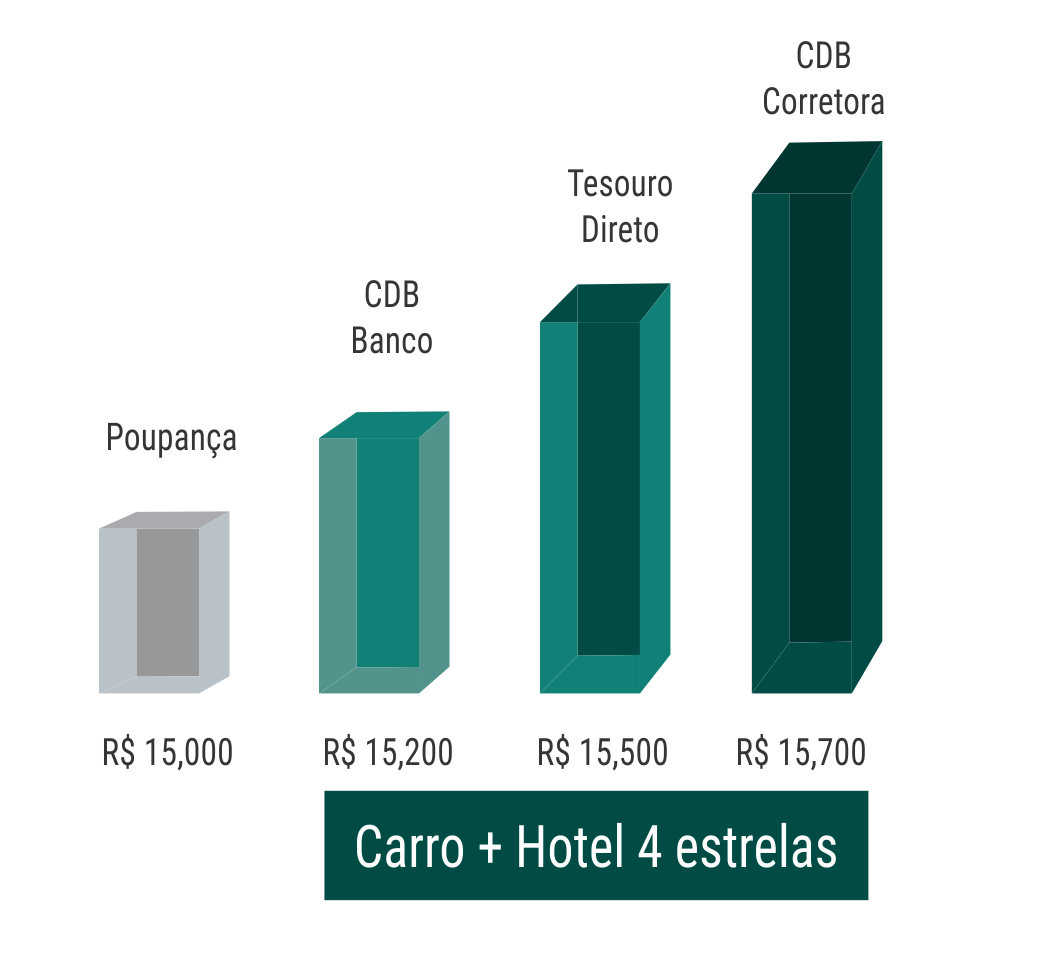
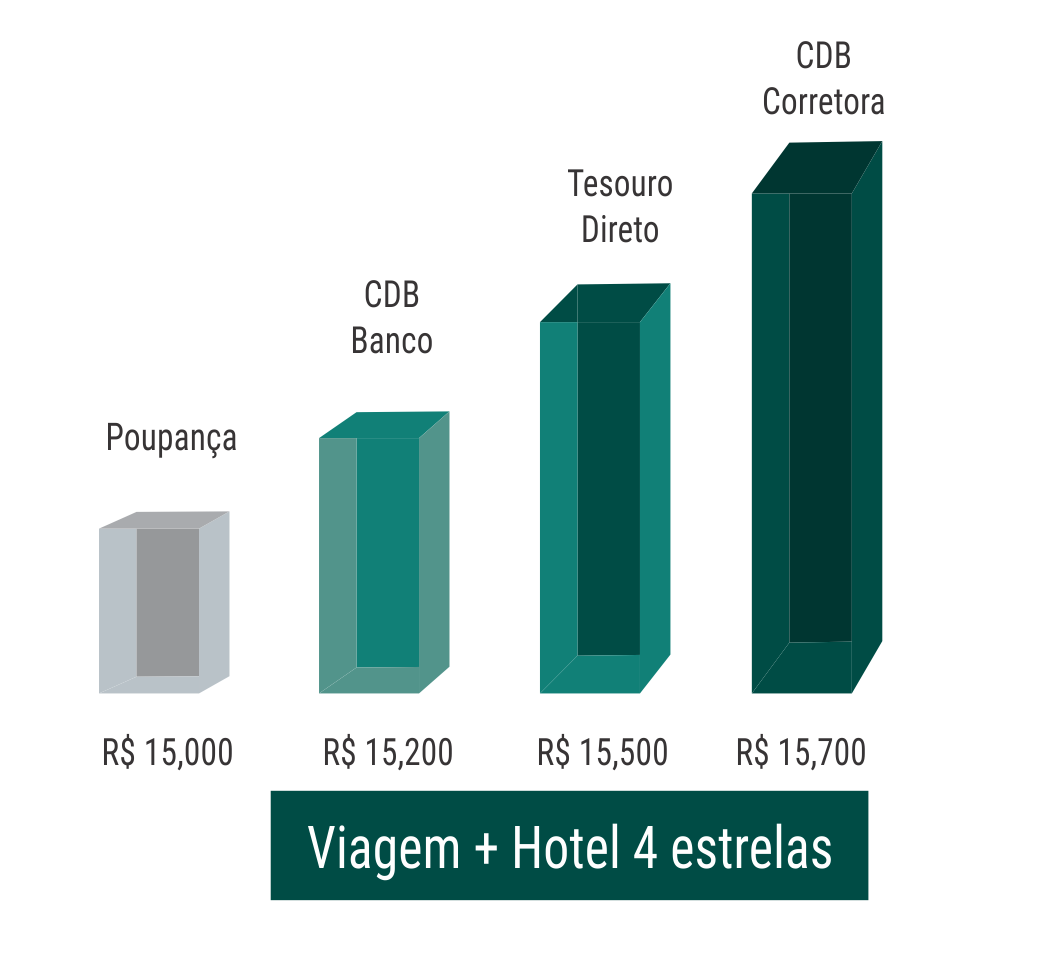
Correções de texto feitas pelo Oseilieri.

Changed region(s): [[0.245, 0.8165, 0.7962, 0.9374]]

diff --git a/src/info/info_2.html b/src/info/info_2.html
@@ -1,25 +1,20 @@
 <template>
     <div class="jumbotron login">
         <h4 class="title resultado-help">
-            Você também pode emprestar seu dinheiro para o banco através do <span class="destaque">CDB</span> 
-            (certificado de depósito bancário), que nada mais é que uma outra forma dos bancos pegarem dinheiro emprestado com as pessoas para financiar suas operações.
+            Os bancos também pegam dinheiro emprestado com você através do <span class="destaque">CDB</span> 
+            (certificado de depósito bancário). A vantagem é que o <span class="destaque">CDB</span> te remunera 
+            melhor e exige que você deixe o dinheiro investido com um prazo pré determinado, 
+            que varia de acordo com a instituição. Com isso basta você escolher o que melhor 
+            combina com o seu objetivo
         </h4>
-        <br>
-        <h4 class="title resultado-help">
-            A principal diferença entre o <span class="destaque">CDB</span> 
-            e a poupança, é que o <span class="destaque">CDB</span> 
-            remunera melhor e exige que você deixe o dinheiro investido até
-            uma data específica, que varia de acordo com o tipo do <span class="destaque">CDB</span>. 
-            Com isso, basta você escolher o que melhor combina com o seu objetivo.
-        </h4>
-        <br>
+        <br>                
         <img class="resultado-image" style="width: 100%; margin-left: 0px; left: 0;" src="./resources/images/investim.png">
         <br>
         <br>
         <br>
         <div class="col-md-12 row">
             <a class="col-md-5 btn btn-lg btn-success auth-button" href="http://blog.bussoladoinvestidor.com.br/guia-investimento-em-cdb-o-que-saber/" target="_blank">Saber mais</a>
-            <a class="col-md-5 col-md-offset-2 btn btn-lg btn-success auth-button" href="#info3">Próximo</a>
+            <a class="col-md-5 col-md-offset-2 btn btn-lg btn-success auth-button" href="#info3">Entendi</a>
         </div>        
     </div>
 </template>

diff --git a/src/intro/fechamento.html b/src/intro/fechamento.html
@@ -2,19 +2,20 @@
     <div class="jumbotron login">
         <form submit.delegate = "submit()">
             <h4 class="title col-md-12">
-                Deixe seus dados abaixo para que a nossa equipe possa entrar em contato para que possamos te ajudar.
+                Ótima escolha!
             </h4>
             <h4 class="title col-md-12">
-                Estamos em uma versão beta, o seu feedback é muito importante para podermos te entregar a melhor 
-                experiência possível.
+                Preencha seus dados que entraremos em contato.
             </h4>
             <h4 class="title col-md-12">
-                Você poderia deixar seu feedback abaixo?
+                Estamos em uma versão beta, o seu feedback é muito importante 
+                para podermos te entregar a melhor experiência possível. 
+                Deixe uma mensagem de feedback abaixo.
             </h4>                
             <div class="form-group">
-                <input value.bind="nome" required="true" type="text" class="form-control input-lg" placeholder="Seu nome (*obrigatório)">
+                <input value.bind="email" required="true" type="email" class="form-control input-lg" placeholder="Seu e-mail (*obrigatório)"/>                
                 <br>
-                <input value.bind="email" required="true" type="email" class="form-control input-lg" placeholder="Seu e-mail (*obrigatório)">
+                <input value.bind="nome" type="tel" class="form-control input-lg" placeholder="Telefone"/>
                 <br>
                 <textarea value.bind="feedback" class="form-control" rows="5" 
                 class="form-control input-lg" placeholder="Mensagem">

diff --git a/src/info/info_3.html b/src/info/info_3.html
@@ -1,14 +1,12 @@
 <template>
     <div class="jumbotron login">
         <h4 class="title resultado-help">
-            Sabia que, assim como os bancos, o <span class="destaque">Governo</span> 
-            brasileiro também precisa de dinheiro emprestado? Você pode emprestar seu dinheiro para o Governo e ele 
-            irá te pagar um juros por isso.
+            Como os bancos, o <span class="destaque">Governo</span> brasileiro também precisa de dinheiro emprestado! 
         </h4>
         <br>
         <h4 class="title resultado-help">
-            É o famoso <span class="destaque">Tesouro Direto</span>. 
-            Eles são comercializados por instituições financeiras e corretoras.
+            Chamado de <span class="destaque">Tesouro Direto</span>, eles são comercializados por 
+            instituições financeiras e corretoras de valores.
         </h4>
         <br>
         <img class="resultado-image-tesouro" src="./resources/images/bau03.jpg">        
@@ -17,7 +15,7 @@
         <br>
         <div class="col-md-12 row">
             <a class="col-md-5 btn btn-lg btn-success auth-button" href="http://blog.bussoladoinvestidor.com.br/o-que-e-tesouro-direto/" target="_blank">Saber mais</a>
-            <a class="col-md-5 col-md-offset-2 btn btn-lg btn-success auth-button" href="#info4">Próximo</a>
+            <a class="col-md-5 col-md-offset-2 btn btn-lg btn-success auth-button" href="#info4">Entendi</a>
         </div>        
     </div>    
 </template>

diff --git a/src/info/info_1.html b/src/info/info_1.html
@@ -1,13 +1,12 @@
 <template>
     <div class="jumbotron login">
         <h4 class="title resultado-help">
-            Vamos começar pelo investimento mais conhecido por todos nós.
-            A <span class="destaque">poupança</span> é um investimento que você empresta 
-            seu dinheiro para o banco e ele te paga um juros por isso.
+            Você sabia?            
         </h4>
         <br>
         <h4 class="title resultado-help">
-            Essa é uma das maneiras mais comuns de investimento no Brasil.
+            O mais comum é a <span class="destaque">poupança</span>, um investimento que você empresta seu dinheiro para o 
+            banco e ele te paga por isso. É uma das maneiras mais comuns de investimento no Brasil
         </h4>
         <br>
         <img class="resultado-image" src="./resources/images/porco.png">        
@@ -16,7 +15,7 @@
         <br>
         <div class="col-md-12 row">
             <a class="col-md-5 btn btn-lg btn-success auth-button" href="http://blog.bussoladoinvestidor.com.br/nao-investir-na-poupanca/" target="_blank">Saber mais</a>
-            <a class="col-md-5 col-md-offset-2 btn btn-lg btn-success auth-button" href="#info2">Próximo</a>
+            <a class="col-md-5 col-md-offset-2 btn btn-lg btn-success auth-button" href="#info2">Entendi</a>
         </div>
     </div>    
 </template>

diff --git a/src/info/info_5v4.html b/src/info/info_5v4.html
@@ -1,16 +1,12 @@
 <template>
     <div class="jumbotron login">
         <h4 class="title resultado-help">
-            Vamos fazer uma breve <span class="destaque">comparativo</span> entre os tipos de investimentos 
-            e quanto você ganharia com eles para realizar o seu sonho que é ${objetivo}.
+            Vamos comparar qual é a melhor opção para você ${objetivo}.
         </h4>
         <br>
         <h4 class="title resultado-help">
-            Vamos supor que a sua viagem custa R$ 15 mil e você pretende juntar esse dinheiro em 18 meses. 
-            Se no mesmo período você tivesse investido em um bom <span class="destaque">CDB</span> da corretora, 
-            por exemplo, você teria R$ 700 a mais. Isso significa que, com essa diferença você poderia 
-            ficar em um hotel 4 estrelas  ao invés de um hotel 3 estrelas, por exemplo, apenas investindo seu 
-            dinheiro de forma mais inteligente.
+           Em um ano e meio, investindo a mesma quantia da poupança, você 
+           consegue se hospedar em hotel 4 estrelas ao invés de um 3 estrelas, apenas investindo melhor.
         </h4>    
         <br>                
         <img class="resultado-image-gra" src="./resources/images/gra-viagem.png">                

diff --git a/src/info/info_5v1.html b/src/info/info_5v1.html
@@ -1,17 +1,12 @@
 <template>
     <div class="jumbotron login">
         <h4 class="title resultado-help">
-            Vamos fazer uma breve <span class="destaque">comparativo</span> entre os tipos de investimentos 
-            e quanto você ganharia com eles para realizar o seu sonho que é ${objetivo}.
+            Vamos comparar qual é a melhor opção para você ${objetivo}.
         </h4>
         <br>
         <h4 class="title resultado-help">
-            Vamos supor que o carro que você quer comprar custa, aproximadamente, 
-            R$ 35 mil e que você pretende comprá-lo em 36 meses. Se no mesmo período 
-            você estivesse investido em um bom CDB da corretora, por exemplo, você teria 
-            cerca de R$ 3 mil a mais. Isso significa que, com essa diferença você poderia, 
-            além de comprar o carro, contratar o seguro, investindo a mesma quantia, porém de 
-            forma mais inteligente.
+            Em 3 anos, investindo a mesma quantia da poupança, além de comprar o carro, 
+            você consegue contratar um seguro para o seu carro apenas investindo melhor.
         </h4>
         <br>
         <img class="resultado-image-gra" src="./resources/images/gra-carro.png">

diff --git a/src/info/info_5v2.html b/src/info/info_5v2.html
@@ -1,15 +1,12 @@
 <template>
     <div class="jumbotron login">
         <h4 class="title resultado-help">
-            Vamos fazer uma breve <span class="destaque">comparativo</span> entre os tipos de investimentos 
-            e quanto você ganharia com eles para realizar o seu sonho que é ${objetivo}.
+            Vamos comparar qual é a melhor opção para você ${objetivo}.
         </h4>
         <br>
         <h4 class="title resultado-help">
-            Vamos supor que o seu apartamento custa R$ 300 mil e que você pretende compra-lo em 15 anos. Se no mesmo período você tivesse
-            investido no Tesouro Direto, por exemplo, você teria R$ 125 mil a mais. Isso significa que, com essa diferença
-            você poderia comprar um apartamento de 3 quartos ao invés de um 2 quartos, por exemplo, apenas investindo seu
-            dinheiro de forma mais inteligente.
+            Em 15 anos, investindo a mesma quantia da poupança, você consegue comprar 
+            um apartamento de 3 quartos ao invés de um 2 quartos, apenas investindo melhor.
         </h4>
         <br>
         <img class="resultado-image-gra" src="./resources/images/gra-casa.png">

diff --git a/src/info/info_5v3.html b/src/info/info_5v3.html
@@ -1,15 +1,12 @@
 <template>
     <div class="jumbotron login">
         <h4 class="title resultado-help">
-            Vamos fazer uma breve <span class="destaque">comparativo</span> entre os tipos de investimentos 
-            e quanto você ganharia com eles para realizar o seu sonho que é ${objetivo}.
+            Vamos comparar qual é a melhor opção para você ${objetivo}.
         </h4>
         <br>
         <h4 class="title resultado-help">
-            Vamos supor um pé de meia para sua aposentadoria no valor de R$ 700 mil e que você pretende acumula-lo em 20 anos. Se no
-            mesmo período você tivesse investido no Tesouro Direto, por exemplo, você poderia fazer uma retirada mensal na
-            sua aposentadoria de quase o dobro comparado a poupança, por exemplo, apenas investindo seu dinheiro de forma
-            mais inteligente.
+            Em 20 anos, investindo a mesma quantia da poupança, você 
+            consegue fazer uma retirada para mensal na sua aposentadoria de quase o dobro, apenas investindo melhor.
         </h4>
         <br>
         <img class="resultado-image-gra" src="./resources/images/gra-aposentadoria.png">

diff --git a/src/info/info_5v5.html b/src/info/info_5v5.html
@@ -1,17 +1,12 @@
 <template>
     <div class="jumbotron login">
         <h4 class="title resultado-help">
-            Vamos fazer uma breve <span class="destaque">comparativo</span> entre os tipos 
-            de investimentos e quanto você ganharia com eles para realizar o seu sonho
-            que é ${objetivo}.
+            Vamos comparar qual é a melhor opção para você ${objetivo}.
         </h4>
         <br>
         <h4 class="title resultado-help">
-            Vamos supor que sua reserva será de R$ 50 mil e você pretende juntar esse 
-            dinheiro em 5 anos. Se no mesmo período você tivesse investido em um bom CDB 
-            da corretora, por exemplo, você teria cerca de R$ 7 mil a mais. Isso significa que, 
-            com essa diferença você poderia fazer muito mais coisas do que antes, apenas investindo 
-            seu dinheiro de forma mais inteligente
+            Em 5 anos, investindo a mesma quantia da poupança, 
+            você consegue comprar muito mais coisas do que antes, apenas investindo melhor.
         </h4>
         <br>
         <img class="resultado-image-gra" src="./resources/images/gra-outros.png">

diff --git a/src/intro/resultado.html b/src/intro/resultado.html
@@ -1,10 +1,13 @@
 <template>
     <div class="jumbotron login">
-        <h3 class="title resultado-help">Agora que eu já sei o seu perfil de investidor, 
-            nós podemos aprender sobre os produtos de investimentos que melhor combinam com você.</h3>
         <h3 class="title">Seu perfil de investidor é:</h3>
-        <img class="resultado-image" src="./resources/images/avatar_${perfil}.png">
+        <img class="resultado-image" src="./resources/images/avatar_${perfil}.png"/>
         <span class="title resultado-perfil resultado-help">${perfil}</span>
+        <br>
+        <h3 class="title resultado-help">
+            Agora que eu já sei o seu perfil de investidor, vamos aprender sobre os produtos 
+            de investimentos que melhor combinam com você.
+        </h3>        
         <a class="btn btn-lg btn-success auth-button" href="#info1">Começar</a>
     </div>
 </template>

diff --git a/src/intro/final.html b/src/intro/final.html
@@ -1,7 +1,7 @@
 <template>
     <div class="jumbotron login">
-        <h4 class="title">Aprender a investir pode se tornar simples e, principalmente, muito mais rentável. </h4>
-        <h4 class="title resultado-help">Vamos te ajudar a alcançar seus sonhos… </h4>
+        <h4 class="title">Aprender a investir é simples e, principalmente, muito mais rentável.</h4>
+        <h4 class="title resultado-help">Vamos te ajudar a alcançar seu sonho!</h4>
         <h4 class="title resultado-help">O que você quer fazer agora?</h4>
         <br>        
         <div class="row container">

diff --git a/src/info/info_4.html b/src/info/info_4.html
@@ -16,7 +16,7 @@
         <br>
         <div class="col-md-12 row">
             <a class="col-md-5 btn btn-lg btn-success auth-button" href="https://www.bussoladoinvestidor.com.br/abc_do_investidor/corretora_de_valores" target="_blank">Saber mais</a>
-            <button class="col-md-5 col-md-offset-2 btn btn-lg btn-success auth-button" click.delegate="continuar()">Próximo</button>
+            <button class="col-md-5 col-md-offset-2 btn btn-lg btn-success auth-button" click.delegate="continuar()">Entendi</button>
         </div>        
     </div>
 </template>
